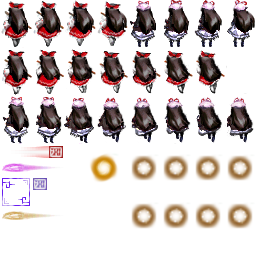
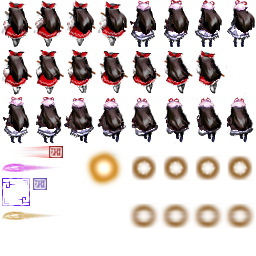
ran orb movement

diff --git a/LetoilePlayerReskin/files.js b/LetoilePlayerReskin/files.js
@@ -31,7 +31,7 @@
 	"th08/Youmu.png": 3787132089,
 	"th08/Yukari.png": 3239282948,
 	"th08/Yuyuko.png": 3764715837,
-	"th08/data/player00/player00.png": 1195495802,
+	"th08/data/player00/player00.png": 916526641,
 	"th08/data/player00/player00b.png": 711696742,
 	"th08/data/player00/player01.png": 2523360752,
 	"th08/data/player00/player02.png": 1704753172,
